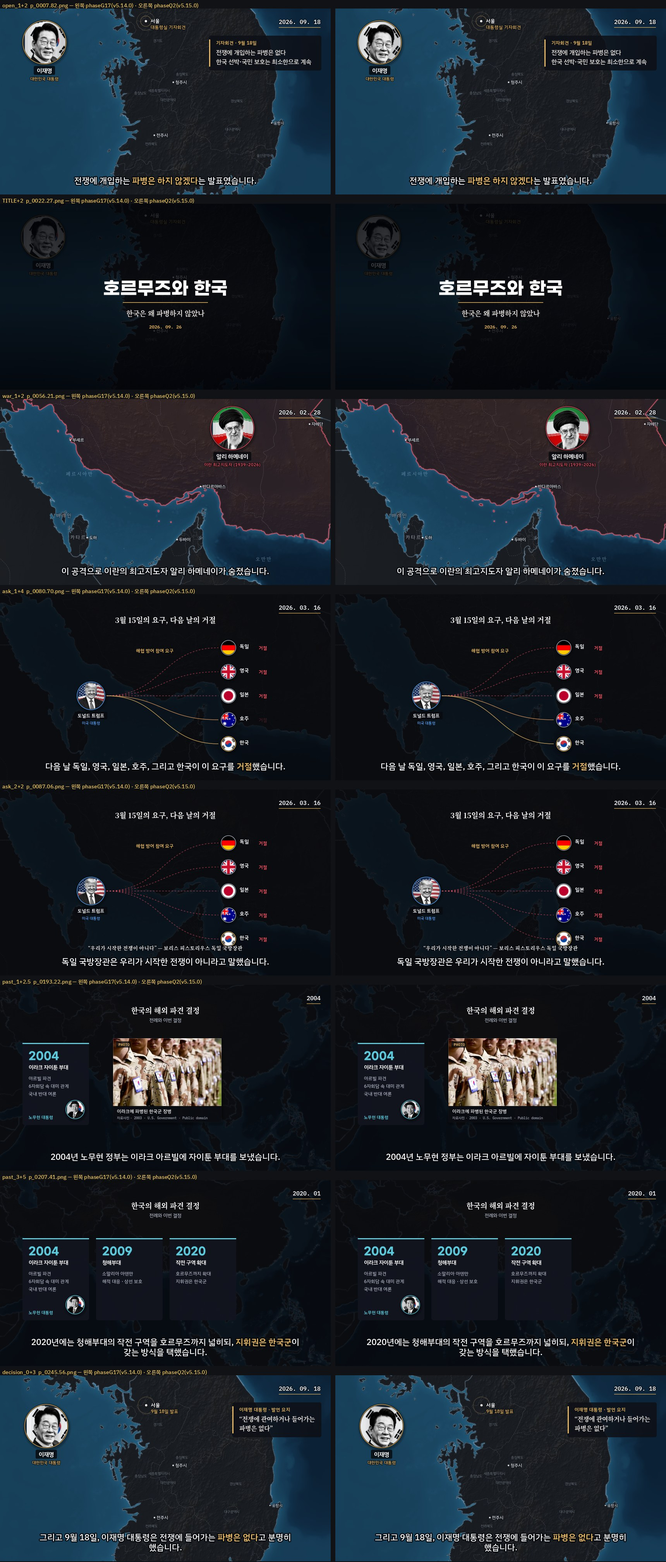
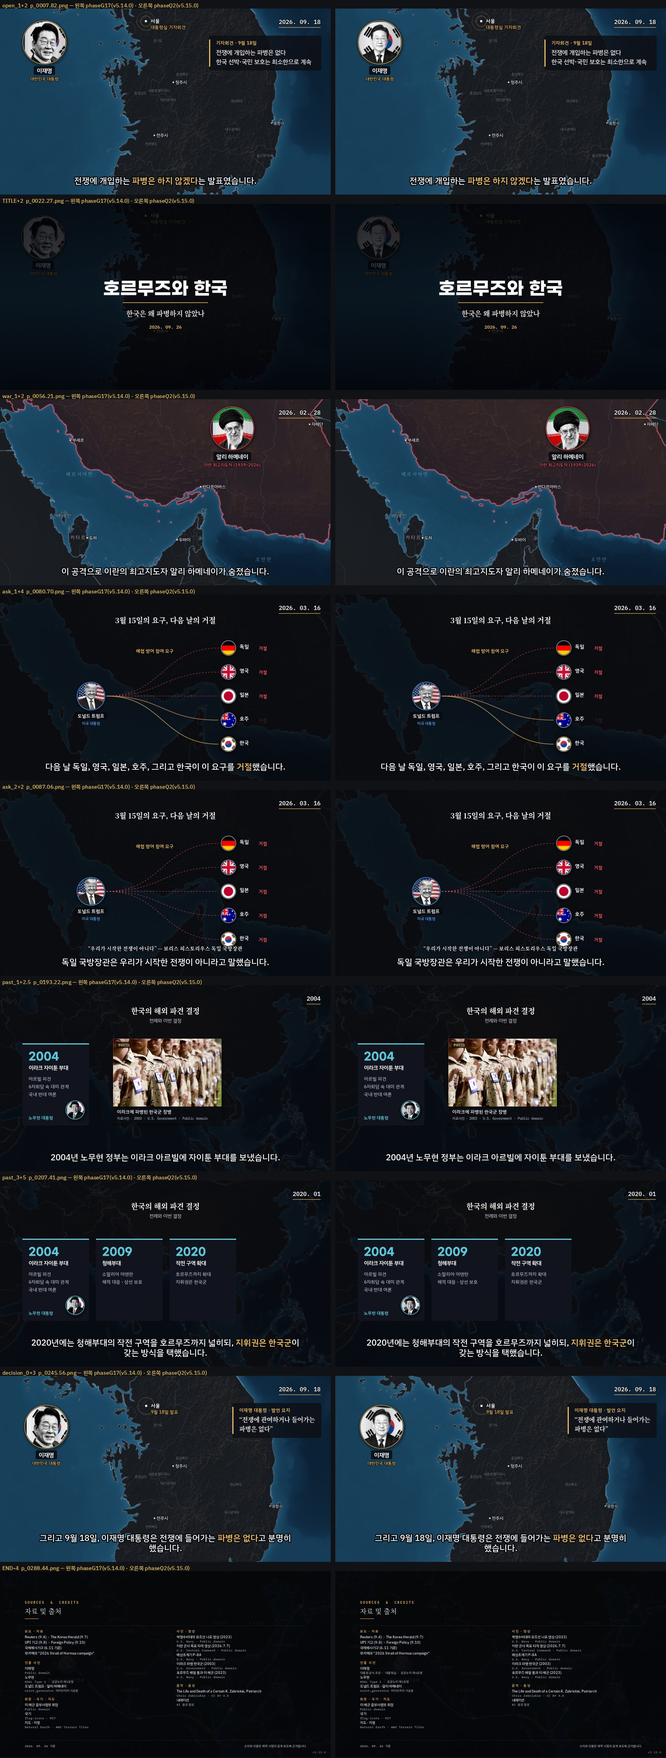
v5.15.0: Q2 이재명 초상 = 대통령실 공식 초상(사용자 결정 D153, D-0160) — 인물 사용자 예외 U20261010(USER_EXCEPTIONS·PersonRights.user_exception·exception, RightsStatus restricted), 크레딧 점검은 등록 예외만 restricted 통과, provenance rights.exceptions 에 보이게(P6), 라이브러리 lee_jae_myung_mono_v02(restricted)·roh v01·휘장 2 승격(C8.7), fetch_data
- 원본: president.go.kr /greeting 프로필 사진(983×656, Last-Modified 2026-04-17, sha256 9010ae99…) → 흰 바탕 합성 → 머리 폭 × 2.4 가로 자르기 → portrait_fallback v3. 옛 v01(백악관 PD) = 프로젝트 portraits_archive(삭제 안 함).
- 골든 9컷(뱃지 8 + 엔딩 크레딧) 재계산, expected_deltas 사유 추가.
- 테스트: 권리 예외 3(목록 밖·사유 없음 거부, 크레딧·provenance, 라이브러리 v02·fetch restricted 유지), g65 크레딧 행 읽기(직접 적은 인물 행).
- 문서: 07 §3.2, 19 §3 3.22(배포 전 재확인), 05·06 rights_status restricted.

Claude-Session: https://claude.ai/code/session_0157T2pwd4LG8dkkcvZACoWJ

diff --git a/tests/test_q2_portrait_flag.py b/tests/test_q2_portrait_flag.py
@@ -15,6 +15,7 @@ from pathlib import Path
 import cairo
 import numpy as np
 from PIL import Image
+from pydantic import ValidationError
 
 from engine.assets import Assets, Labels
 from engine.context import RenderCtx
@@ -181,8 +182,13 @@ class FitTest(unittest.TestCase):
                 widths[(pid, Rr)] = w
                 self.assertTrue(PT.min_width <= w <= PT.width, (pid, Rr, w))
                 self.assertTrue(_head_fits(mask, portrait_alpha_top(R, key), w, Rr), (pid, Rr))
-        self.assertLess(widths[("lee_jae_myung", 56)], PT.width)       # 사용자 지적 컷 — 줄어든다
         self.assertEqual(widths[("trump", 56)], PT.width)               # 들어가는 초상은 그대로
+        old = self.HORMUZ / "assets" / "portraits_archive" / "lee_jae_myung_v01_whitehouse.png"   # 사용자 지적(D152) 당시 사진 — 줄어든다
+        if old.exists():
+            with tempfile.TemporaryDirectory() as d:
+                (Path(d) / "assets" / "portraits").mkdir(parents=True)
+                Image.open(old).save(Path(d) / "assets" / "portraits" / "p.png")
+                self.assertLess(portrait_fit(_ctx(Path(d)), "portrait:p", 56), PT.width)
 
     def test_too_wide_head_shrinks_or_errors(self) -> None:
         """머리가 넓은 합성 초상은 폭이 줄고(정수리 자리 그대로), min_width 로도 안 들면 PortraitFitError(조용한 잘림 없음)."""
@@ -231,6 +237,54 @@ class TokensTest(unittest.TestCase):
         self.assertNotIn("set_line_width(1.5)", src)
         self.assertEqual(src.count("RING.outer_w"), 1)
         self.assertIs(badges.FW, BADGE.flag_wave)
+
+
+class RightsExceptionTest(unittest.TestCase):
+    """D-0160(사용자 결정 D153) — 인물 사용자 예외: 등록된 예외만 restricted 를 넘고, 보이게 기록된다(P6)."""
+
+    ENTRY = dict(src="president_go_kr", license="공공누리 제4유형", artist="대통령실", url="https://www.president.go.kr/greeting",
+                 rights_status="restricted", user_exception="U20261010", exception="사용자 결정 D153")
+
+    def test_registry_accepts_only_listed_exception(self) -> None:
+        from schemas.engine_models import RightsRegistry  # noqa: PLC0415
+
+        RightsRegistry.model_validate({"people": {"lee_jae_myung": self.ENTRY}})
+        with self.assertRaises(ValidationError):
+            RightsRegistry.model_validate({"people": {"trump": self.ENTRY}})            # 예외 목록 밖 인물
+        with self.assertRaises(ValidationError):
+            RightsRegistry.model_validate({"people": {"lee_jae_myung": {**self.ENTRY, "exception": None}}})   # 사유 없음
+
+    def test_credit_check_and_provenance(self) -> None:
+        """restricted + 등록 예외 = 통과·provenance 에 1건, 예외 없는 restricted = RightsError(조용히 통과 금지)."""
+        from engine.credits import RightsError, rights_exception, rights_exceptions  # noqa: PLC0415
+
+        self.assertEqual(rights_exception("people.lee_jae_myung", self.ENTRY), "U20261010")
+        self.assertIsNone(rights_exception("people.lee_jae_myung", {**self.ENTRY, "user_exception": None}))
+        self.assertIsNone(rights_exception("people.trump", self.ENTRY))
+        exc = rights_exceptions({"people.lee_jae_myung", "people.trump"},
+                                {"people": {"lee_jae_myung": self.ENTRY, "trump": {"rights_status": "rights_clear"}}})
+        self.assertEqual([(e["ref"], e["rights_status"], e["user_exception"]) for e in exc],
+                         [("people.lee_jae_myung", "restricted", "U20261010")])
+        self.assertTrue(issubclass(RightsError, Exception))
+
+    def test_library_v02_and_fetch_keep_restricted(self) -> None:
+        """라이브러리 이재명 = v02 공식 초상(restricted·예외 기록·파일 있음), fetch_data 는 라이브러리에서 받고 restricted 를 덮지 않는다."""
+        import json  # noqa: PLC0415
+
+        import tools.fetch_data as fd  # noqa: PLC0415
+        from schemas.models import AssetLibraryManifest  # noqa: PLC0415
+
+        lib = json.loads((REPO / "assets" / "library" / "library_manifest.json").read_text(encoding="utf-8"))
+        AssetLibraryManifest.model_validate(lib)
+        lee = next(p for p in lib["people"] if p["person_id"] == "lee_jae_myung")
+        self.assertEqual(lee["source"]["rights_status"], "restricted")
+        self.assertEqual(lee["source"]["user_exception"], "U20261010")
+        self.assertTrue(lee["variants"][0]["path"].endswith("lee_jae_myung_mono_v02.png"))
+        self.assertTrue((REPO / lee["variants"][0]["path"]).exists())
+        self.assertIn("lee_jae_myung", fd.LIBRARY_PEOPLE)
+        self.assertNotIn("lee_jae_myung", fd.COMMONS_PEOPLE)
+        src = (REPO / "tools" / "fetch_data.py").read_text(encoding="utf-8")
+        self.assertIn('rights_status="restricted" if src.get("user_exception")', src)
 
 
 if __name__ == "__main__":

diff --git a/tools/fetch_data.py b/tools/fetch_data.py
@@ -63,15 +63,13 @@ GMARKET_URL = "https://cdn.jsdelivr.net/gh/projectnoonnu/noonfonts_2001@1.1/Gmar
 
 # commons_v3.json — prep3 portraits_emblems() 가 정확한 title 로 고른다 (reference rights_registry.json 기준)
 COMMONS_PEOPLE: dict[str, str] = {
-    "lee_jae_myung": "File:Lee Jae Myung portrait.jpg",
     "roh_moo_hyun": "File:Roh Moo-hyun presidential portrait.jpg",
-}
+}   # v5.15.0 D-0160 — 이재명은 라이브러리(대통령실 공식 초상 v02, 사용자 예외 U20261010)로 옮겼다(LIBRARY_PEOPLE)
 COMMONS_EMBLEMS: dict[str, str] = {"centcom": "File:United States Naval Forces Central Command patch 2014.png"}
 # 미리 받기: legacy 코드는 파일이 없을 때만 Commons API 를 다시 부른다(prep3 commons_get, media3 thumb_url —
 # 후자는 재시도 없음). 메타데이터 조회 1회로 legacy 코드가 요청할 것과 **같은 폭**의 파일을 같은 경로에 둔다.
 # key → (폭 또는 None=원본, V3_ROOT 기준 경로). 폭 근거: prep3 commons_get 960/500, media3 thumb 1280/960, round2 1600
 PREFETCH: dict[str, tuple[int | None, str]] = {
-    "lee_jae_myung": (960, "assets/photo_lee_jae_myung.jpg"),
     "roh_moo_hyun": (960, "assets/photo_roh_moo_hyun.jpg"),
     "centcom": (500, "assets/emblems/navcent.png"),
 }
@@ -277,7 +275,7 @@ def cmd_commons(root: Path, dry: bool) -> list[str]:
     return failures
 
 
-LIBRARY_PEOPLE: tuple[str, ...] = ("trump", "khamenei")          # v3 호르무즈 — 라이브러리 가공본
+LIBRARY_PEOPLE: tuple[str, ...] = ("trump", "khamenei", "lee_jae_myung")   # v3 호르무즈 — 라이브러리 가공본(이재명 = v5.15.0 공식 초상 v02, D-0160)
 FLAG_EXTRA: tuple[str, ...] = ("eu",)                            # prep3 flags() extra 중 FLAG_CODES 밖
 
 
@@ -311,11 +309,14 @@ def cmd_people(root: Path, dry: bool) -> list[str]:
     pm = json.loads((REPO / "assets/library/workshop/references/photo_manifest.json").read_text(encoding="utf-8"))["people"]
     for pid in LIBRARY_PEOPLE:
         lib = library_portrait(pid, root / "assets" / "portraits" / f"{pid}.png")
-        record_rights(regp, "people", pid, dict(src="repo_library", license=lib["source"]["license"],
-                                               artist=re.sub("<[^>]+>", "", pm.get(pid, {}).get("artist", "")),
-                                               url=lib["source"]["url"], rights_status="rights_clear",
+        src = lib["source"]   # v5.15.0 D-0160 — 권리 상태·사용자 예외는 라이브러리 기록 그대로(restricted 를 rights_clear 로 덮지 않음)
+        record_rights(regp, "people", pid, dict(src="repo_library", license=src["license"],
+                                               artist=re.sub("<[^>]+>", "", pm.get(pid, {}).get("artist", "")) or src.get("credit", ""),
+                                               url=src["url"], rights_status="restricted" if src.get("user_exception") else "rights_clear",
                                                processing={"tool": "tools/portrait_fallback.py library",
-                                                           "variant": lib["variant"]["path"]}))
+                                                           "variant": lib["variant"]["path"]},
+                                               **({"user_exception": src["user_exception"], "exception": src["exception"]}
+                                                  if src.get("user_exception") else {})))
     cand = json.loads((root / "data" / "commons_v3.json").read_text(encoding="utf-8"))
     for pid, title in COMMONS_PEOPLE.items():
         c = next(x for x in cand[pid] if x["title"] == title)

diff --git a/tools/asset_library.py b/tools/asset_library.py
@@ -58,7 +58,8 @@ def pending(proj: Path) -> dict[str, list[str]]:
     return {"people": people, "emblems": emb}
 
 
-def promote(proj: Path) -> dict[str, list[str]]:
+def promote(proj: Path, version: int = 1) -> dict[str, list[str]]:
+    """version = 초상 변형 번호(v5.15.0 D-0160 — 같은 인물의 다른 사진이면 2 이상, 파일 `<pid>_mono_vNN.png`)."""
     from schemas.models import AssetLibraryManifest  # noqa: PLC0415
 
     todo = pending(proj)
@@ -70,14 +71,15 @@ def promote(proj: Path) -> dict[str, list[str]]:
         if not r or r.get("src") == "repo_library" or not r.get("url"):
             done["skipped"].append(f"people.{pid}: 권리 기록(출처 URL) 없음 — 승격 안 함")
             continue
-        dest = PEOPLE_DIR / f"{pid}_mono_v01.png"
+        dest = PEOPLE_DIR / f"{pid}_mono_v{version:02d}.png"
         shutil.copyfile(proj / "assets" / "portraits" / f"{pid}.png", dest)
         name_ko, role = _entity_names(pid)
         proc = r.get("processing") or {}
         lib["people"].append({
             "person_id": pid, "name_ko": name_ko, "name_en": "", "role": role, "aliases": [], "accent_hint": "",
             "source": {"url": r["url"], "license": r["license"], "rights_status": r.get("rights_status") or "rights_clear",
-                       "credit": r.get("artist", ""), "note": f"{proj.name} 에서 승격(v5.6.0) · 원본 {proc.get('source_file', '')}"},
+                       "credit": r.get("artist", ""), "note": f"{proj.name} 에서 승격(v5.6.0) · 원본 {proc.get('source_file', '')}",
+                       **({"user_exception": r["user_exception"], "exception": r.get("exception", "")} if r.get("user_exception") else {})},
             "variants": [{"style": "mono", "pose": "front", "path": (dest.relative_to(REPO) if dest.is_relative_to(REPO) else dest).as_posix(), "generator_version": "",
                           "tool": f"{proc.get('tool', 'tools/portrait_fallback.py')} --style {proc.get('style', 'engraving')}",
                           "prompt_ref": ""}],
@@ -97,13 +99,14 @@ def main(argv: list[str] | None = None) -> int:
     ap = argparse.ArgumentParser(description=__doc__.split("\n")[0])
     ap.add_argument("cmd", choices=("promote", "check"))
     ap.add_argument("proj", type=Path)
+    ap.add_argument("--version", type=int, default=1, help="초상 변형 번호(같은 인물의 다른 사진이면 2 이상, v5.15.0 D-0160)")
     a = ap.parse_args(argv)
     proj = a.proj.resolve()
     if a.cmd == "check":
         p = pending(proj)
         print(json.dumps(p, ensure_ascii=False))
         return 1 if p["people"] or p["emblems"] else 0
-    print(json.dumps(promote(proj), ensure_ascii=False))
+    print(json.dumps(promote(proj, a.version), ensure_ascii=False))
     return 0
 
 

diff --git a/engine/credits.py b/engine/credits.py
@@ -261,6 +261,25 @@ def description_credits(rights: dict, required: set[str], rules: Optional[Credit
     return lines
 
 
+def rights_exception(ref: str, entry: dict) -> Optional[str]:
+    """restricted 인물 자산의 등록된 사용자 예외 번호(v5.15.0 D-0160) — 없으면 None. 인물(people.<id>)만, restricted 만."""
+    from schemas.emblem_models import person_exception_ok  # noqa: PLC0415
+
+    kind, _, key = ref.partition(".")
+    ue = entry.get("user_exception")
+    if kind == "people" and entry.get("rights_status") == "restricted" and person_exception_ok(key, ue):
+        return ue
+    return None
+
+
+def rights_exceptions(required: set[str], rights: dict) -> list[dict]:
+    """provenance `rights.exceptions` — 이번 영상이 쓴 restricted·사용자 예외 자산(조용히 통과시키지 않고 보이게, 15 P6)."""
+    view = registry_view(rights, {})
+    return [{"ref": r, "rights_status": view[r].get("rights_status"), "user_exception": view[r].get("user_exception"),
+             "exception": view[r].get("exception"), "license": view[r].get("license")}
+            for r in sorted(required) if r in view and rights_exception(r, view[r]) is not None]
+
+
 def credit_summary(required: set[str], rules: Optional[CreditRules] = None) -> dict[str, dict[str, int]]:
     """provenance `credits`: 표기 위치별 종류 → 개수."""
     rules = rules or load_rules().credits
@@ -315,7 +334,7 @@ def check_credits(cr: Credits, rights: dict, media: dict, required: set[str], ru
             errs.append(f"권리 레지스트리에 없음: {r}")
             continue
         status = view[r].get("rights_status", "rights_clear")
-        if status != "rights_clear":
+        if status != "rights_clear" and rights_exception(r, view[r]) is None:
             errs.append(f"권리 미확인 자산({status}): {r} — <미검증> 라벨 외 사용 금지(C9)")
         if kind in rules.card_kinds and r not in covered:
             errs.append(f"엔딩 크레딧 누락: {r}")

diff --git a/schemas/engine_models.py b/schemas/engine_models.py
@@ -55,6 +55,15 @@ class PersonRights(_Strict):
     rights_status: Optional[RightsStatus] = None  # v2.4.0 — commons_fetch·portrait_fallback 이 기록
     retrieved_at: Optional[str] = None
     processing: Optional[dict[str, object]] = None  # 가공 도구·파라미터·원본(C9, G4-10)
+    # v5.15.0 D-0160 — 사용자 예외(schemas.emblem_models.USER_EXCEPTIONS). restricted 자산은 예외가 있어야 렌더된다(engine.credits)
+    user_exception: Optional[str] = Field(default=None, pattern=r"^(D\d+|U\d{8})$")
+    exception: Optional[str] = None                 # 예외 사유·조건 문구(예외가 있으면 필수)
+
+    @model_validator(mode="after")
+    def _exception_text(self) -> "PersonRights":
+        if self.user_exception is not None and not self.exception:
+            raise ValueError(f"user_exception={self.user_exception} 에 exception(사유·조건) 없음")
+        return self
 
 
 class EmblemRights(_Strict):
@@ -91,6 +100,16 @@ class RightsRegistry(_Strict):
     fonts: dict[str, AssetRights] = Field(default_factory=dict)
     map: dict[str, AssetRights] = Field(default_factory=dict)
     narration: dict[str, AssetRights] = Field(default_factory=dict)
+
+    @model_validator(mode="after")
+    def _person_exceptions(self) -> "RightsRegistry":
+        from schemas.emblem_models import person_exception_ok  # noqa: PLC0415
+
+        bad = [f"{k}:{e.user_exception}" for k, e in self.people.items()
+               if e.user_exception is not None and not person_exception_ok(k, e.user_exception)]
+        if bad:
+            raise ValueError(f"사용자 예외 목록(USER_EXCEPTIONS)에 없는 인물 예외: {bad}")
+        return self
 
 
 class StageResult(_Strict):

diff --git a/schemas/emblem_models.py b/schemas/emblem_models.py
@@ -37,7 +37,15 @@ def license_allowed(lic: str) -> bool:
 USER_EXCEPTIONS: dict[str, frozenset[str]] = {
     "D98": frozenset({"cheongwadae"}),
     "U20261004": frozenset({"nato"}),   # v5.5.0 사용자 직접 지시 2026-10-04 "nato 휘장도 제작해서" — Fable DECISIONS 기록 대기(D119 방식)
+    # v5.15.0 back_and_forth D-0160(사용자 결정 D153, 2026-10-10) — 인물 초상 예외(같은 사전, 키 = 인물 id): 이재명 대통령 공식 초상
+    # (대통령실, 공공누리 제4유형 — 출처표시·비상업·변경 금지). 개인 프로젝트로 조건 인지 후 사용. **배포(공개 게시) 전 재확인**.
+    "U20261010": frozenset({"lee_jae_myung"}),
 }
+
+
+def person_exception_ok(pid: str, user_exception: Optional[str]) -> bool:
+    """인물 권리 항목의 사용자 예외가 USER_EXCEPTIONS 에 등록돼 있는가(D-0160). 예외 없는 restricted 는 False."""
+    return user_exception is not None and pid in USER_EXCEPTIONS.get(user_exception, frozenset())
 
 
 def decide_emblem(restrictions: list[str], license: str, has_file: bool,

diff --git a/schemas/models.py b/schemas/models.py
@@ -108,6 +108,7 @@ class RightsStatus(str, Enum):
     LOGIN_REQUIRED = "login_required"
     PRIVATE_OR_DELETED = "private_or_deleted"
     DO_NOT_USE = "do_not_use"
+    RESTRICTED = "restricted"               # v5.15.0 D-0160 — 이용 조건 제한(변경 금지·비상업 등). 사용자 예외(user_exception)가 있을 때만 렌더
 
 
 class IntakeMode(str, Enum):
@@ -803,6 +804,8 @@ class AssetSourceRef(BaseModel):
     rights_status: RightsStatus = RightsStatus.RIGHTS_UNKNOWN
     credit: str = ""                        # 출처표시 의무 문구 (있는 경우 필수 표기)
     note: str = ""                          # nominative_use / self_made 등 메모
+    user_exception: Optional[str] = None    # v5.15.0 D-0160 — 사용자 예외 번호(schemas.emblem_models.USER_EXCEPTIONS)
+    exception: str = ""                     # 예외 사유·조건 문구
 
 
 class LibraryAssetVariant(BaseModel):

diff --git a/tests/test_g65_merge.py b/tests/test_g65_merge.py
@@ -88,6 +88,8 @@ class AutoPeopleNamesTest(unittest.TestCase):
         names = person_names()
         cred = yaml.safe_load((REPO / "projects" / "hormuz_korea" / "credits.yaml").read_text(encoding="utf-8"))
         rows = {i["license_ref"]: i["main"] for sec in cred["sections"] for i in sec.get("items", []) if "license_ref" in i}
+        rows.update({i["rights"][0].split(".", 1)[1]: i["main"] for sec in cred["sections"] for i in sec.get("items", [])
+                     if len(i.get("rights", [])) == 1 and i["rights"][0].startswith("people.")})   # v5.15.0 — 문구를 직접 적은 인물 행(D-0160)
         for pid in ("lee_jae_myung", "roh_moo_hyun"):   # hormuz 수동 행(한 줄 한 인물)과 auto 표기가 같다
             self.assertEqual(names[f"people.{pid}"], rows[pid])
 

diff --git a/docs/05_DATA_SCHEMA_SPEC.md b/docs/05_DATA_SCHEMA_SPEC.md
@@ -192,7 +192,7 @@ last_review: 2026-09-29
 | 모델 | 산출물 | 상태 |
 |---|---|---|
 | `BundleSectionVideo` / `BundleReportVideo` / `BundleTimelineVideo` | (수신) report_bundle `video` 블록 | 유지 — 번들 모델(§3.4g) |
-| `AssetSourceRef`, `LibraryAssetVariant`, `LibraryPerson`, `LibraryLogo`, `LibraryFlag`, `AssetLibraryManifest` | `assets/library/library_manifest.json` | 유지 — 인물·CI·국기 라이브러리 인덱스 + 권리(C9). 엔티티 레지스트리의 1차 소스(§7) |
+| `AssetSourceRef`, `LibraryAssetVariant`, `LibraryPerson`, `LibraryLogo`, `LibraryFlag`, `AssetLibraryManifest` | `assets/library/library_manifest.json` | 유지 — 인물·CI·국기 라이브러리 인덱스 + 권리(C9). 엔티티 레지스트리의 1차 소스(§7). v5.15.0: `AssetSourceRef.user_exception`·`exception`(선택), `RightsStatus.restricted`(D-0160) |
 | `SafeArea`, `DesignSheet` | (쇼츠 디자인 시트) | v2.0.0 삭제(쇼츠 트랙 보관, G5) |
 
 ## 7. v2.4.0 추가 계약 (Phase 5 — 뱃지·엔티티·권리, back_and_forth D-0029)
@@ -203,7 +203,7 @@ last_review: 2026-09-29
 |---|---|---|
 | `assets/entities.yaml` | `schemas/entity_models.py` `EntitiesFile`·`Entity` | 인물·기관·국가. 라이브러리 24인(`library_manifest.json`) 자동 조인. 별칭 중복·미등재 참조 = `RegistryError`(15 P10) |
 | `assets/emblems/registry.json` | `schemas/emblem_models.py` `EmblemRegistry`·`EmblemEntry` | `decision ∈ {use, flag_fallback}` 은 코드 규칙(`decide_emblem`)과 같아야 로드된다. Restrictions 하나라도 → `flag_fallback`(D5) |
-| 프로젝트 `assets/rights_registry.json` | `schemas/engine_models.py` `RightsRegistry` | people·emblems + (선택) flags·music·fonts·map·narration(`AssetRights`). `rights_status`·`retrieved_at`·`processing` 선택 필드 추가(C3 호환) |
+| 프로젝트 `assets/rights_registry.json` | `schemas/engine_models.py` `RightsRegistry` | people·emblems + (선택) flags·music·fonts·map·narration(`AssetRights`). `rights_status`·`retrieved_at`·`processing` 선택 필드 추가(C3 호환). v5.15.0: `PersonRights.user_exception`·`exception`(선택, 사용자 예외 — D-0160), `RightsStatus` 에 `restricted` |
 | `assets/rights_bundles.yaml` | `AssetRights` | 묶음 자산 권리 원본. `fetch_data people` 이 프로젝트 레지스트리에 병합 |
 | 프로젝트 `credits.yaml` | `engine/credits.py` `Credits` | 항목 `rights: [절.키]`, 절 `auto: <절>`. 렌더가 쓰는 자산이 레지스트리에 없거나·미확인이거나·크레딧에 없으면 `RightsError` |
 | provenance `assets` | `engine/mux.py asset_usage` | `images_used`, `emblems.{used, flag_fallback}`, `badges.{suggested, used, suggested_and_used}` |

diff --git a/docs/handoff/19_FABLE_ANALYSIS_AND_OPUS_EXECUTION_PLAN.md b/docs/handoff/19_FABLE_ANALYSIS_AND_OPUS_EXECUTION_PLAN.md
@@ -141,6 +141,7 @@ Opus는 "프로 다큐로 보이는가" 판정 시 아래를 기준으로 삼는
 | 3.19 | `22` 신설(v5.10.0, D-0147): 스케치 트랙(`sketch/`, 엔진 레지스트리 밖) 계약·검사·출처·권리·사용자 확정 대기·본편 등록 후보. 옛 `projects/d1_missile_sketch/CONVENTIONS.md` 내용 이관 뒤 삭제(P2). | 충돌 없음. 스케치는 본편 요소가 아니다(D128) — 본편 영상 기준(01·02·04~11·14)을 바꾸지 않는다. 화면 수치는 `rules sketch:` 키만(D130). 등록 후보를 본편에 넣을 때는 레지스트리·스키마·렌더러·프리뷰 동시 변경(C7, P10). |
 | 3.20 | `23` 품질 가이드(사용자 제공, v5.13.0) — §22.3 "선택형 visual profile·기본값은 기존 출력", §19 "edge 음성 유지", §5 "D117 고정값", §6 sage 색, §15 720p 선폭이 저장소 규칙과 다르다. | D149(D-0153 §2): 교체형(시안만 `stage_config.mercator.theme` 로 병렬, 결정 뒤 한 테마만 남김), D146 우선, D148 로 cascade 값 교체, cascade 전용 표면 토큰(sage 미등재), 720 값 ÷ 1.5 = 설계 px + 최소 1 device px 보정 한 곳. 가이드는 브리프이고 저장소 규칙이 우선(C11 ③). |
 | 3.21 | `08` §15·§15.1 cascade V2(v5.14.0, D-0153 §4·D-0157): slot `x0 + dx·s`·`y0 + dy·s`, 230×108, 깊이 Y 삭제, 상자 가림 = 앞 카드 실제 모양(`draw_frame` 선택 인자), `cascade.surface` 토큰. | 충돌 없음 — 사용자 결정 D148(V2 적용)·D149(값 교체). 옛 D117 값은 가이드 23 §5 표가 기록. `draw_frame` 기본 호출 바이트 동일(아일랜드·패널 불변), hormuz 골든은 cascade 0 이라 무변경. **미검증 프로젝트 3**(hormuz-talks-2026·kaliningrad-suwalki·valdai-2026 — plan 없음, D-0158): 다음 렌더에서 `[cascade-label-under]` 가 나오면 연출(카드 자리·라벨)을 고친다, 검사 완화 금지. |
+| 3.22 | `07` §3.2·§10 인물 뱃지 V2(v5.15.0, D-0153 §5·D-0158·D-0159·D-0160): 초상 2.04R·정수리 0.83R·머리 우선 축소, 국기 물결 정수 열 14~96, 링 이전 두께(D152). 이재명 초상 = 대통령실 공식 초상(공공누리 제4유형). | **사용자 예외 D153(개인 프로젝트)** — `07` §3.2 허용 라이선스 밖, `USER_EXCEPTIONS U20261010`·`restricted`·provenance `rights.exceptions` 로 보이게 기록. **배포(공개 게시) 전에는 이 예외를 다시 확인한다.** 가이드 §10 링 2.4/0.8 은 사용자 지시 D152 로 미적용. |
 
 ---
 

diff --git a/docs/handoff/07_PEOPLE_FLAGS_EMBLEMS_RIGHTS.md b/docs/handoff/07_PEOPLE_FLAGS_EMBLEMS_RIGHTS.md
@@ -96,6 +96,7 @@ extmetadata: LicenseShortName, Artist(HTML), Restrictions, Credit
 - **Restrictions 태그**(`personality`, `insignia`, `trademarked`, `communist`)가 있으면 자동 차단 → 사람 판단. (예: 이재명 2021 사진은 KOGL+personality → 제외, 같은 인물의 Public domain 공식 초상 사용)
 - **다운로드 폭은 표준 썸네일 폭(예: 960) 또는 원본**. 비표준 폭(700 등)은 썸네일 생성 요청이 되어 **HTTP 429**가 반복된다(v2에서 실제 발생 — 저장소 RIGHTS.md의 교훈과 동일). 실패 시 원본 URL로 폴백, 6회 재시도, 지수적 대기.
 - 받은 바이트는 `PIL.Image.open(BytesIO).verify()`로 검증(429 HTML이 jpg로 저장되는 사고 방지).
+- **사용자 예외 D153(개인 프로젝트, v5.15.0 D-0160)**: 이재명 초상 = 대통령실 공식 초상(공공누리 제4유형 — 출처표시·비상업·변경 금지). 허용 라이선스 밖이지만 사용자가 조건을 인지하고 정한 예외다(`USER_EXCEPTIONS["U20261010"]`, `rights_status: restricted`, 라이브러리 `lee_jae_myung_mono_v02`). **배포(공개 게시) 전에는 이 예외를 다시 확인한다.**
 
 ### 3.3 이번 세션에서 쓴 인물 원본
 | 인물 | 파일 | 라이선스 | 비고 |
